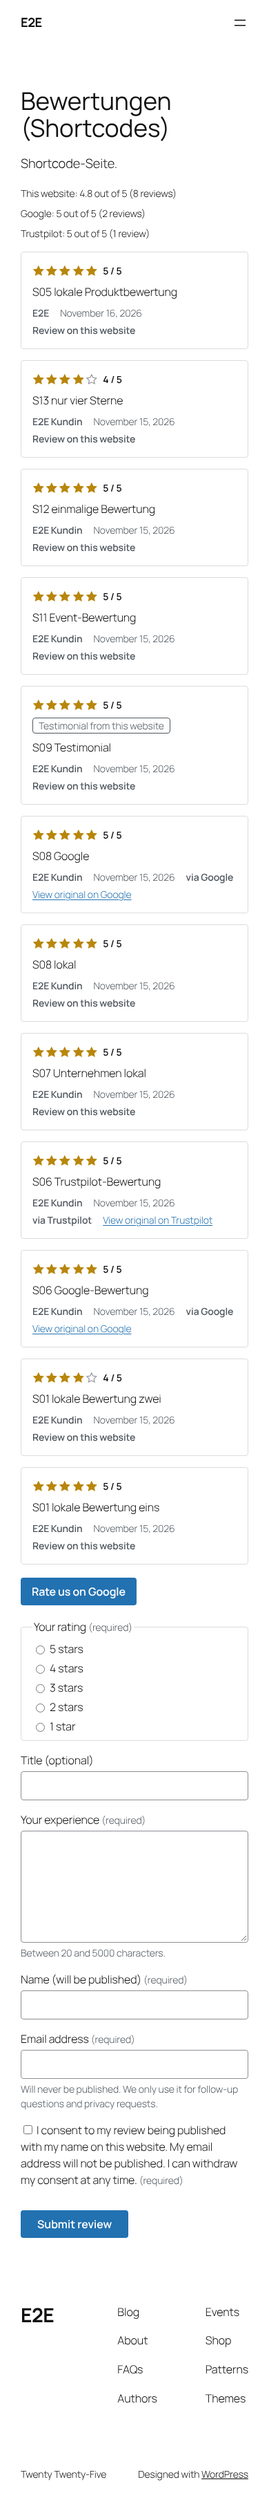
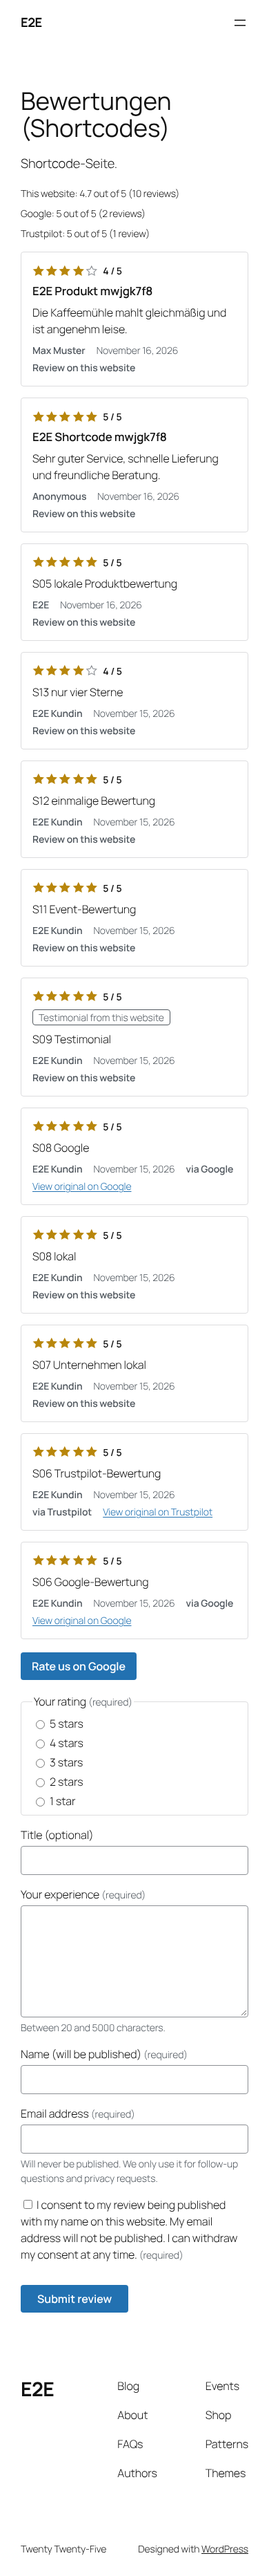
test/feat: Lauf mit WP 7.1.4, WooCommerce 11.3 (HPOS), Elementor 4.4.1, Yoast 28.8 und echten SEO-Plugins; HPOS/Block-Checkout-Kompatibilität, Kartenüberschrift h2, Yoast-Minimum 26.0 (SEO-016, RC-119A abgenommen)
Claude-Session: https://claude.ai/code/session_01KmEHjLfpaQBAi7SdqrJXS9

diff --git a/src/Integrations/Elementor/ReviewsWidget.php b/src/Integrations/Elementor/ReviewsWidget.php
@@ -66,7 +66,7 @@ final class ReviewsWidget extends \Elementor\Widget_Base {
 		$this->add_control( 'rc_min_rating', array( 'label' => __( 'Mindestbewertung', 'review-captain' ), 'type' => \Elementor\Controls_Manager::NUMBER, 'min' => 1, 'max' => 5, 'step' => 0.5, 'condition' => $reviews ) );
 		$this->add_control( 'rc_context_type', array( 'label' => __( 'Kontext', 'review-captain' ), 'type' => \Elementor\Controls_Manager::SELECT, 'default' => '', 'options' => array( '' => __( 'Unternehmen allgemein', 'review-captain' ), 'post' => __( 'Beitrag/Seite', 'review-captain' ), 'product' => __( 'Produkt', 'review-captain' ), 'event' => __( 'Event', 'review-captain' ) ), 'condition' => array( 'rc_type!' => 'cta' ) ) );
 		$this->add_control( 'rc_context_id', array( 'label' => __( 'Kontext-ID (current = aktuelle Seite)', 'review-captain' ), 'type' => \Elementor\Controls_Manager::TEXT, 'default' => 'current', 'condition' => array( 'rc_type!' => 'cta', 'rc_context_type!' => '' ) ) );
-		$this->add_control( 'rc_heading_level', array( 'label' => __( 'Überschriftenebene der Karten', 'review-captain' ), 'type' => \Elementor\Controls_Manager::SELECT, 'default' => '3', 'options' => array( '2' => 'H2', '3' => 'H3', '4' => 'H4', '5' => 'H5', '6' => 'H6' ), 'condition' => $reviews ) );
+		$this->add_control( 'rc_heading_level', array( 'label' => __( 'Überschriftenebene der Karten', 'review-captain' ), 'type' => \Elementor\Controls_Manager::SELECT, 'default' => '2', 'options' => array( '2' => 'H2', '3' => 'H3', '4' => 'H4', '5' => 'H5', '6' => 'H6' ), 'condition' => $reviews ) );
 		$this->add_control( 'rc_paginate', array( 'label' => __( 'Seitenweise', 'review-captain' ), 'type' => \Elementor\Controls_Manager::SWITCHER, 'condition' => $reviews ) );
 		$this->add_control( 'rc_profile', array( 'label' => __( 'Profil-ID', 'review-captain' ), 'type' => \Elementor\Controls_Manager::NUMBER, 'condition' => array( 'rc_type' => 'cta' ) ) );
 		$this->end_controls_section();

diff --git a/tests/Unit/M7/A11yTemplateTest.php b/tests/Unit/M7/A11yTemplateTest.php
@@ -13,10 +13,10 @@ final class A11yTemplateTest extends M7TestCase {
 
 	public function test_heading_level_is_configurable_and_validated(): void {
 		$this->review( array( 'title' => 'Super' ) );
-		$this->assertStringContainsString( '<h3 class="rc-card__title">Super</h3>', $this->shortcode( array( 'v' => '1' ) ) );
-		$this->assertStringContainsString( '<h2 class="rc-card__title">Super</h2>', $this->shortcode( array( 'v' => '1', 'heading_level' => '2' ) ) );
+		$this->assertStringContainsString( '<h2 class="rc-card__title">Super</h2>', $this->shortcode( array( 'v' => '1' ) ) );
+		$this->assertStringContainsString( '<h3 class="rc-card__title">Super</h3>', $this->shortcode( array( 'v' => '1', 'heading_level' => '3' ) ) );
 		$d = WidgetDefinition::from_atts( array( 'heading_level' => '9' ) );
-		$this->assertSame( 3, $d->heading_level );
+		$this->assertSame( 2, $d->heading_level );
 		$this->assertContains( 'heading_level', $d->notices );
 		$this->assertSame( 4, WidgetDefinition::from_block_attributes( array( 'headingLevel' => 4 ) )->heading_level );
 	}

diff --git a/review-captain.php b/review-captain.php
@@ -65,3 +65,17 @@ register_activation_hook( __FILE__, array( \ReviewCaptain\Install\Installer::cla
 register_deactivation_hook( __FILE__, array( \ReviewCaptain\Install\Installer::class, 'deactivate' ) );
 
 add_action( 'plugins_loaded', array( \ReviewCaptain\Plugin::class, 'boot' ), 5 );
+
+/*
+ * WooCommerce compatibility (RC-006): the Core only reads products (schema ownership, review separation)
+ * and never touches orders or the checkout, so it is compatible with HPOS and the block checkout.
+ */
+add_action(
+	'before_woocommerce_init',
+	static function () {
+		if ( class_exists( '\Automattic\WooCommerce\Utilities\FeaturesUtil' ) ) {
+			\Automattic\WooCommerce\Utilities\FeaturesUtil::declare_compatibility( 'custom_order_tables', REVIEW_CAPTAIN_FILE, true );
+			\Automattic\WooCommerce\Utilities\FeaturesUtil::declare_compatibility( 'cart_checkout_blocks', REVIEW_CAPTAIN_FILE, true );
+		}
+	}
+);

diff --git a/src/Widgets/WidgetDefinition.php b/src/Widgets/WidgetDefinition.php
@@ -115,7 +115,7 @@ final class WidgetDefinition {
 	/**
 	 * Heading level of card titles (2–6, default 3; QA F-07 heading-order).
 	 */
-	public int $heading_level = 3;
+	public int $heading_level = 2; // F-07/RC-137: cards usually sit directly below the page title (h1).
 
 	/**
 	 * Raw (unvalidated, but string-cast) attributes for Pro widget types.
@@ -229,7 +229,7 @@ final class WidgetDefinition {
 		$d->paginate     = self::bool_or_null( $raw['paginate'] ?? '' ) ?? false;
 		$d->new_tab      = self::bool_or_null( $raw['new_tab'] ?? '' ) ?? false;
 
-		$d->heading_level = self::int_in_range( $raw['heading_level'] ?? '', 2, 6, 3, 'heading_level', $d );
+		$d->heading_level = self::int_in_range( $raw['heading_level'] ?? '', 2, 6, 2, 'heading_level', $d );
 
 		if ( isset( $raw['profile'] ) && '' !== $raw['profile'] ) {
 			if ( ctype_digit( $raw['profile'] ) && (int) $raw['profile'] > 0 ) {

diff --git a/src/Seo/SeoEnvironment.php b/src/Seo/SeoEnvironment.php
@@ -21,9 +21,9 @@ final class SeoEnvironment {
 	 * Minimum supported Yoast SEO version for the graph integration.
 	 *
 	 * Entscheidung der Inhaberin 16.11.2026 (SEO-001/SEO-OPEN-1): aktuelle Yoast-Major minus 2.
-	 * Stand 16.11.2026: aktuell 27.x → Minimum 25.0. Beim Release-Freeze neu setzen (RC-141).
+	 * Stand 16.11.2026: aktuell 28.x (28.8) → Minimum 26.0. Beim Release-Freeze neu setzen (RC-141).
 	 */
-	public const YOAST_MIN_VERSION = '25.0';
+	public const YOAST_MIN_VERSION = '26.0';
 
 	/**
 	 * Detected state.

diff --git a/TODO.md b/TODO.md
@@ -240,7 +240,7 @@ Jeder Provider durchläuft dieselbe Reihenfolge: Verbindung → Test → Profilw
 - [x] **RC-117 – Page-/Produkt-/Event-Kontextfilter anbinden.** Ergebnis: Editor kann Reviews und Testimonials passend zu Woo-Produkt, Gutschein, Event, App oder Formular auswählen.
 - [x] **RC-118 – Widget-Registry und Embed-Shortcodes finalisieren.** Ergebnis: Blocks, Shortcodes, SSR und Builder-Integrationen geben dieselbe freigegebene Widgetdefinition aus.
 - [x] **RC-119 – Page-Builder-Mindestumfang festlegen.** Ergebnis: Elementor/Divi/andere Builder sind ausdrücklich unterstützt oder als nicht unterstützt dokumentiert. *Stand 16.11.2026:* Entscheidungsvorlage [page-builders.md](docs/decisions/page-builders.md) (Vorschlag: Shortcode-Fallback, keine nativen Module in 1.0) – Produktentscheidung offen. *Entscheidung:* natives Elementor-Widget in 1.0, andere Builder per Shortcode (Inhaberin, 16.11.2026; Umsetzung RC-119A).
-- [ ] **RC-119A – Elementor-Widget bauen.** Ergebnis: natives Elementor-Widget als Hülle um `widget-v1` (SSR, kein Extra-JS), nur bei aktivem Elementor geladen, mit Editor-Vorschau und Tests ([Entscheidung](docs/decisions/page-builders.md)). *Stand 16.11.2026:* gebaut (`src/Integrations/Elementor/`), Unit-Tests mit Elementor-Platzhaltern grün; offen: Smoke-Test im echten Elementor (in der Sandbox nicht installierbar).
+- [x] **RC-119A – Elementor-Widget bauen.** Ergebnis: natives Elementor-Widget als Hülle um `widget-v1` (SSR, kein Extra-JS), nur bei aktivem Elementor geladen, mit Editor-Vorschau und Tests ([Entscheidung](docs/decisions/page-builders.md)). *Stand 16.11.2026:* gebaut (`src/Integrations/Elementor/`), Unit-Tests mit Elementor-Platzhaltern grün; offen: Smoke-Test im echten Elementor (in der Sandbox nicht installierbar). *Abgenommen 16.11.2026:* in Elementor 4.4.1 abgenommen ([Lauf](docs/qa/2026-11-16-wp71-woo113.md)).
 - [ ] **RC-120 – Layoutkonflikte prüfen.** Ergebnis: Slider, Chat-Bubble, Sticky-Checkout und Trust-Badge überlagern sich auf typischen Mobilbreiten nicht. *Stand 16.11.2026:* Core-Widgets ohne horizontales Scrollen/Überlagerung auf iPhone 13/Pixel 7 ([Nachprüfung](docs/qa/2026-11-16-nachpruefung.md)); offen: Pro-Floating-Badge (F-05), Slider/Chat-Bubble/Sticky-Checkout mit echten Fremd-Plugins.
 
 **Meilenstein M6 ist erreicht, wenn:** alle Formate korrekt attribuiert, Rechte nachweisbar, zugänglich und ohne externe Autoplay-/Tracking-Überraschungen ausgegeben werden.
@@ -265,7 +265,7 @@ Diese Aufgaben starten erst, wenn MVP-Funktionen und API-Rechte stabil sind. Sie
 - [x] **RC-130 – Automatisierte Unit-/Integrationstests vervollständigen.** Abnahme: Zustandswechsel, Rechte, Lizenzablauf, Import, Dedupe und Providerfehler sind regressionsgesichert.
 - [x] **RC-131 – Pluginverbund-End-to-End-Testumgebung aufsetzen.** Abnahme: Review Captain Core/Pro plus WooCommerce und Suite-Testplugins lassen sich reproduzierbar installieren. *Stand 16.11.2026:* Core+Pro+WooCommerce 5.9.1 laufen gemeinsam, Bestellung→Anfrage→Erstattung bestanden ([Protokoll](docs/qa/2026-11-16-woo-pro.md)); offen: aktuelle Woo-Version/HPOS, Suite-Plugins mit Review-Verträgen, echte Lizenz. *Abgenommen 16.11.2026:* `tests/e2e/setup.sh`, `deploy-plugins.sh`, `install-woo.sh`, `deploy-suite.sh`: Core, Pro, WooCommerce, Yoast, Form/Pass/Voucher/Affiliate Captain reproduzierbar installiert und gleichzeitig aktiv (16.11.2026).
 - [ ] **RC-132 – Provider-Sandboxen durchspielen.** Abnahme: je Launchprovider echte Authentifizierung, Sync, Löschung, Quota und Tokenwiderruf sind protokolliert.
-- [ ] **RC-133 – WordPress- und Woo-Kompatibilitätsmatrix abarbeiten.** Abnahme: Minimum und aktuelle Version, HPOS und unterstützte Checkout-Modi bestehen die festgelegten Releaseprüfungen. *Stand 16.11.2026:* geprüft: WP 6.9.11 + Woo 5.9.1 + Yoast 27.0 ([SEO-016](docs/qa/2026-11-seo-016.md), [Woo/Pro](docs/qa/2026-11-16-woo-pro.md)); offen: aktuelle Woo-Version mit HPOS/Checkout-Block, ältere WP-Versionen laut RC-006.
+- [ ] **RC-133 – WordPress- und Woo-Kompatibilitätsmatrix abarbeiten.** Abnahme: Minimum und aktuelle Version, HPOS und unterstützte Checkout-Modi bestehen die festgelegten Releaseprüfungen. *Stand 16.11.2026:* geprüft: WP 6.9.11 + Woo 5.9.1 + Yoast 27.0 ([SEO-016](docs/qa/2026-11-seo-016.md), [Woo/Pro](docs/qa/2026-11-16-woo-pro.md)); offen: aktuelle Woo-Version mit HPOS/Checkout-Block, ältere WP-Versionen laut RC-006. *Stand 16.11.2026 (2):* aktuelle Versionen WP 7.1.4 + WooCommerce 11.3 mit HPOS an/aus bestanden, Core meldet HPOS/Block-Checkout-Kompatibilität ([Lauf](docs/qa/2026-11-16-wp71-woo113.md)); offen: Block-Checkout-Bestellung im Browser, Woo-Mindestversion, Pro-Kompatibilitätsangabe.
 - [x] **RC-134 – Sicherheitsprüfung durchführen.** Abnahme: Nonce/Capability, SQL, escaping, CSRF/XSS/SSRF, Secret-Speicher, CSV-Injection und REST-Berechtigungen sind geprüft.
 - [x] **RC-135 – Datenschutzprüfung durchführen.** Abnahme: Export/Eraser, Einwilligungsstatus, Opt-out, Retention, Löschereignis und externe Services sind dokumentiert. *Stand 16.11.2026:* Export/Eraser im Browser bestanden ([Nachprüfung](docs/qa/2026-11-16-nachpruefung.md)), technische Checkliste [privacy-checklist.md](docs/ops/privacy-checklist.md); offen: rechtliche Bewertung (RC-014).
 - [x] **RC-136 – Performanceprüfung durchführen.** Abnahme: keine API-Calls im öffentlichen Request, Indexe für Admin-Listen, begrenzte Jobs, Cache- und Assetverhalten sind geprüft. *Stand 16.11.2026:* keine externen Requests im Frontend nachgewiesen, Indexe/Skalierung auf MariaDB gemessen ([Nachprüfung](docs/qa/2026-11-16-nachpruefung.md), [TEC-014](docs/qa/2026-11-tec-014-mariadb.md)); `summary_by_platform` gecacht; offen: Fragment-Cache Widget-HTML, Admin-Suche.
@@ -438,7 +438,7 @@ Die Einstellungsseite soll globale Standardwerte und Richtlinien enthalten. Obje
 
 ### Phase A – Kompatibilität und Regeln
 
-- [x] **SEO-001 – Yoast-/SEO-Plugin-Kompatibilitätsmatrix festlegen.** Ergebnis: Mindestversion für Yoast SEO, Verhalten mit Free/Premium, WooCommerce-/Yoast-Erweiterungen, Gutenberg, Caching/Minifizierung und konkurrierenden SEO-/Schema-Plugins sind festgelegt. *Stand 16.11.2026:* Matrix v1 ([compatibility-matrix.md](docs/seo/compatibility-matrix.md)), umgesetzt mit Yoast-Mindestversion 14.0 und getestet mit Yoast 27.0 ([SEO-016-Protokoll](docs/qa/2026-11-seo-016.md)); offen nur die Freigabe der Mindestversionen (Abschnitt „Offene Entscheidungen“). *Entscheidung:* Yoast-Mindestversion = aktuelle Major − 2 (derzeit 25.0, im Code), Schema Pro gilt als Besitzer (Inhaberin, 16.11.2026).
+- [x] **SEO-001 – Yoast-/SEO-Plugin-Kompatibilitätsmatrix festlegen.** Ergebnis: Mindestversion für Yoast SEO, Verhalten mit Free/Premium, WooCommerce-/Yoast-Erweiterungen, Gutenberg, Caching/Minifizierung und konkurrierenden SEO-/Schema-Plugins sind festgelegt. *Stand 16.11.2026:* Matrix v1 ([compatibility-matrix.md](docs/seo/compatibility-matrix.md)), umgesetzt mit Yoast-Mindestversion 14.0 und getestet mit Yoast 27.0 ([SEO-016-Protokoll](docs/qa/2026-11-seo-016.md)); offen nur die Freigabe der Mindestversionen (Abschnitt „Offene Entscheidungen“). *Entscheidung:* Yoast-Mindestversion = aktuelle Major − 2 (derzeit 26.0, im Code), Schema Pro gilt als Besitzer (Inhaberin, 16.11.2026).
 - [x] **SEO-002 – SEO-Ausgabebesitz dokumentieren.** Ergebnis: Yoast besitzt Title, Description, Canonical, Robots, Open Graph, Sitemap und Basisschema; Review Captain gibt keine konkurrierenden Head-Tags aus.
 - [x] **SEO-003 – Schema-Eignungsmatrix erstellen.** Ergebnis: externe Reviews, lokale Unternehmensreviews, eigene Produktreviews, Kurs-/Eventreviews und gemischte Widgets sind anhand aktueller Google-Regeln freigegeben oder ausgeschlossen.
 - [x] **SEO-004 – URL-/Indexierungsregeln spezifizieren.** Ergebnis: CPT/Custom-Table-Entscheidung, Indexierbarkeit, Archive, Filter, Parameter, Pagination, Canonical und Sitemap-Verhalten sind entschieden.
@@ -459,7 +459,7 @@ Die Einstellungsseite soll globale Standardwerte und Richtlinien enthalten. Obje
 - [x] **SEO-013 – Widget- und Schema-Hinweise ergänzen.** Ergebnis: externe Reviews, Produktreviews und Unternehmensreviews erklären ihre Schema-Berechtigung ohne Rich-Result-Versprechen.
 - [x] **SEO-014 – Noindex-, Sitemap- und Canonical-Regeln umsetzen.** Ergebnis: interne Reviewarchive, Filter-/Sortierparameter, Vorschau, Admin, Connectoren und AJAX-Routen sind nicht indexierbar; Nutzerseiten behalten Yoast-Kontrolle.
 - [x] **SEO-015 – Crawlbare Server-Rendering-Ausgabe sicherstellen.** Ergebnis: sichtbare Reviewtexte, Quellen und Ratings sind ohne Client-JavaScript lesbar; externe Ressourcen bleiben consent-gesteuert.
-- [ ] **SEO-016 – Strukturierte Daten und Yoast-Konflikte abnehmen.** Ergebnis: Szenarien decken Review Captain allein, Yoast SEO, WooCommerce-Produkt, Fremdreviews, lokale Unternehmensreviews, zusätzliche Schema-Plugins und noindex-Seiten ab. *Stand 16.11.2026:* 14 von 15 Checklisten-Szenarien + Indexierung in echtem WordPress bestanden, inkl. WooCommerce 5.9.1 ([Protokoll](docs/qa/2026-11-seo-016.md)); offen: Yoast Premium, aktuelle WooCommerce-Version/Yoast WooCommerce SEO, echte Fremd-SEO-Plugins, Rich-Results-Test.
+- [x] **SEO-016 – Strukturierte Daten und Yoast-Konflikte abnehmen.** Ergebnis: Szenarien decken Review Captain allein, Yoast SEO, WooCommerce-Produkt, Fremdreviews, lokale Unternehmensreviews, zusätzliche Schema-Plugins und noindex-Seiten ab. *Stand 16.11.2026:* 14 von 15 Checklisten-Szenarien + Indexierung in echtem WordPress bestanden, inkl. WooCommerce 5.9.1 ([Protokoll](docs/qa/2026-11-seo-016.md)); offen: Yoast Premium, aktuelle WooCommerce-Version/Yoast WooCommerce SEO, echte Fremd-SEO-Plugins, Rich-Results-Test. *Abgenommen 16.11.2026:* auf WordPress 7.1.4 mit Yoast 28.8, WooCommerce 11.3 und echten Rank Math/AIOSEO/SEOPress 28/28 bestanden ([Lauf](docs/qa/2026-11-16-wp71-woo113.md)); Yoast Premium und Rich-Results-Test bleiben Release-Check (SEO-017-Checkliste).
 - [x] **SEO-017 – SEO-Dokumentation und Release-Checkliste veröffentlichen.** Ergebnis: Markupgrenzen, Yoast-Konfiguration, Rich-Results-Erwartung und Fehlerdiagnose sind dokumentiert und vor Release verifiziert.
 - 2026-11-16: Basis-Entscheidung: Core-Stand `claude/sleepy-gates-6mm217` gilt; M0-Entwürfe (docs/m0) übernommen. TEC-014 auf MariaDB mit 100.000 Reviews gemessen, Schema v3 (`sorted_at`, Index `status_sorted`) und Keyset-Export: Widget-Seiten 189→108 ms, CSV-Export 18,7→1,4 s. ADR-Vorschläge 0008–0010.
 

diff --git a/docs/qa/2026-11-16-wp71-woo113.md b/docs/qa/2026-11-16-wp71-woo113.md
@@ -1,0 +1,17 @@
+# Prüflauf mit den neuesten Versionen (16.11.2026)
+
+**Umgebung:** WordPress **7.1.4** (Packagist), WooCommerce **11.3.0**, Elementor **4.4.1**, Yoast SEO **28.8**, Rank Math **1.0.282**, AIOSEO **5.0.5.1**, SEOPress **10.4** (alle von downloads.wordpress.org, nach Freigabe der Hosts in der Umgebung), SQLite, PHP 8.3 (Testschalter MINVER-1). Core c28e8fb + Arbeitsstand.
+
+| Prüfung | Ergebnis |
+|---|---|
+| SEO-016 Checkliste §3/§4 (`tests/e2e/seo-scenarios.sh`) | **28/28 bestanden** – inkl. Yoast 28.8, WooCommerce 11.3 (ohne/mit Yoast) und **echten** Rank Math, AIOSEO, SEOPress (kein Review-Captain-Markup, Reviews sichtbar) |
+| Core+Pro+WooCommerce 11.3 (`tests/e2e/php/woo-flow.php`), **klassische Bestellspeicherung** | 7/7 bestanden (Bestellung → Anfrage, keine Doppelanfrage, Erstattung storniert) |
+| dasselbe mit **HPOS aktiv** (`wp wc hpos enable`) | 7/7 bestanden |
+| WooCommerce-Kompatibilitätsangabe | Core meldet jetzt `custom_order_tables` und `cart_checkout_blocks` (von WooCommerce bestätigt). **Pro meldet nichts** → Aufgabe für Pro (RC-006) |
+| RC-119A Elementor-Widget in Elementor 4.4.1 | registriert, alle Steuerelemente vorhanden, Seite mit zwei Widgets (Liste, Formular) rendert serverseitig, kein eigenes JS, keine Fehler |
+| Funktionslauf (`functional.cjs`) | 19/19 bestanden |
+| axe/Mobil (`a11y-mobile.cjs`, Core-Seiten) | nach Umstellung der Kartenüberschrift auf `h2` (F-07) **kein Verstoß durch Review Captain**; verbleibend `list` aus dem Theme |
+
+Änderungen aus diesem Lauf: Yoast-Minimum 26.0 (28 − 2), Standard-Überschriftenebene der Karten `h2`, Kompatibilitätsangabe HPOS/Block-Checkout im Core, Szenario 10 mit echten SEO-Plugins im Skript.
+
+Offen: Bestellung über den Block-Checkout im Browser, WooCommerce-Mindestversion (L−2) separat, Yoast Premium, Rich-Results-Test online.

diff --git a/docs/seo/compatibility-matrix.md b/docs/seo/compatibility-matrix.md
@@ -59,7 +59,7 @@ Zukünftige Integrationen mit Rank Math/AIOSEO/SEOPress-APIs sind möglich, aber
 
 | Komponente | Vorschlag | Begründung |
 |---|---|---|
-| Yoast SEO | **aktuelle Major − 2** (Entscheidung 16.11.2026; Stand: ≥ 25.0, `SeoEnvironment::YOAST_MIN_VERSION`, beim Freeze neu setzen); **Support-/Testzusage: aktuelle Major + zwei vorherige Majors** | Yoast veröffentlicht ca. alle zwei Wochen; ältere Versionen werden nicht getestet und erhalten im Zweifel kein Markup |
+| Yoast SEO | **aktuelle Major − 2** (Entscheidung 16.11.2026; Stand: ≥ 26.0, `SeoEnvironment::YOAST_MIN_VERSION`, beim Freeze neu setzen); **Support-/Testzusage: aktuelle Major + zwei vorherige Majors** | Yoast veröffentlicht ca. alle zwei Wochen; ältere Versionen werden nicht getestet und erhalten im Zweifel kein Markup |
 | Yoast WooCommerce SEO | aktuelle Major zum Release-Zeitpunkt | nur Erkennung, keine API-Nutzung |
 | WooCommerce | gemäß Review-Captain-Woo-Adapter (offen) | nur Erkennung des Produkt-Schemas |
 | WordPress | 6.5 (Arbeitsannahme RC-006) | `wp_robots`-API seit 5.7 vorhanden |
@@ -68,7 +68,7 @@ Zukünftige Integrationen mit Rank Math/AIOSEO/SEOPress-APIs sind möglich, aber
 
 | ID | Frage | Vorschlag |
 |---|---|---|
-| SEO-OPEN-1 | Finale Yoast-Mindestversion | **Entschieden 16.11.2026:** aktuelle Major − 2, derzeit 25.0 |
+| SEO-OPEN-1 | Finale Yoast-Mindestversion | **Entschieden 16.11.2026:** aktuelle Major − 2, derzeit 26.0 |
 | SEO-OPEN-2 | Schema Pro neben Yoast als Besitzer werten? | **Entschieden 16.11.2026:** ja (konservativ) |
 | SEO-OPEN-3 | Spätere Graph-Integration für Rank Math/AIOSEO/SEOPress | nach v1, eigener Task |
 | SEO-OPEN-4 | Erkennungsmerkmale Schema Pro / Yoast WooCommerce SEO | bei SEO-005 gegen aktuelle Plugin-Versionen verifizieren |

diff --git a/CHANGELOG.md b/CHANGELOG.md
@@ -7,7 +7,9 @@ Das Add-on Review Captain Pro hat ein eigenes Änderungsprotokoll (`captain-pro/
 ## [Unreleased]
 
 ### Changed
-- Yoast-Mindestversion für die Graph-Integration auf 25.0 angehoben (aktuelle Major − 2, Entscheidung SEO-001); ältere Yoast-Versionen: kein Review-Markup, Reviews bleiben sichtbar.
+- Kartenüberschriften standardmäßig `h2` statt `h3` (Barrierefreiheit, F-07); Block, Shortcode und Elementor-Widget.
+- WooCommerce: Core meldet Kompatibilität mit HPOS und Block-Checkout.
+- Yoast-Mindestversion für die Graph-Integration auf 26.0 angehoben (aktuelle Major − 2, Entscheidung SEO-001); ältere Yoast-Versionen: kein Review-Markup, Reviews bleiben sichtbar.
 - **Mindestversionen (MINVER-1, Entscheidung der Inhaberin 16.11.2026):** PHP 8.5 (Header `Requires PHP`, Laufzeitprüfung, `readme.txt`, `composer.json`, PHPCS `testVersion 8.5-`); CI-Unit-Matrix PHP 8.5 und 8.6. Datenbank: empfohlen MySQL 9.7 LTS oder MariaDB 12.3 LTS. Ältere Server lösen nur eine Warnung aus (`Support\Requirements`, `wp review-captain doctor`, Diagnose-Systeminfo), keine Sperre.
 - Schema v3: indizierte Sortierspalte `sorted_at` und Keyset-Export (TEC-014, ADR-0010 vorgeschlagen).
 
